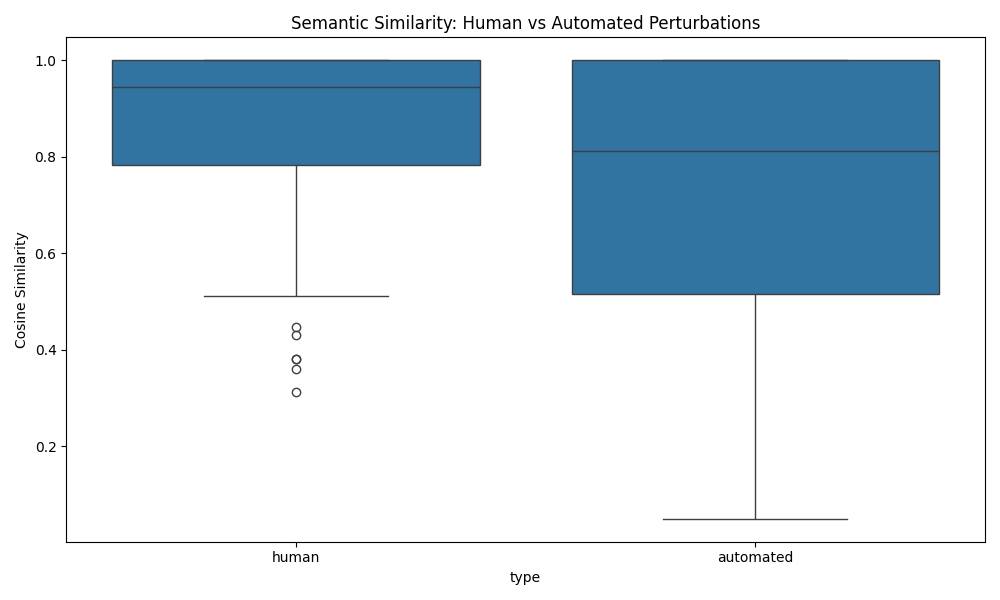
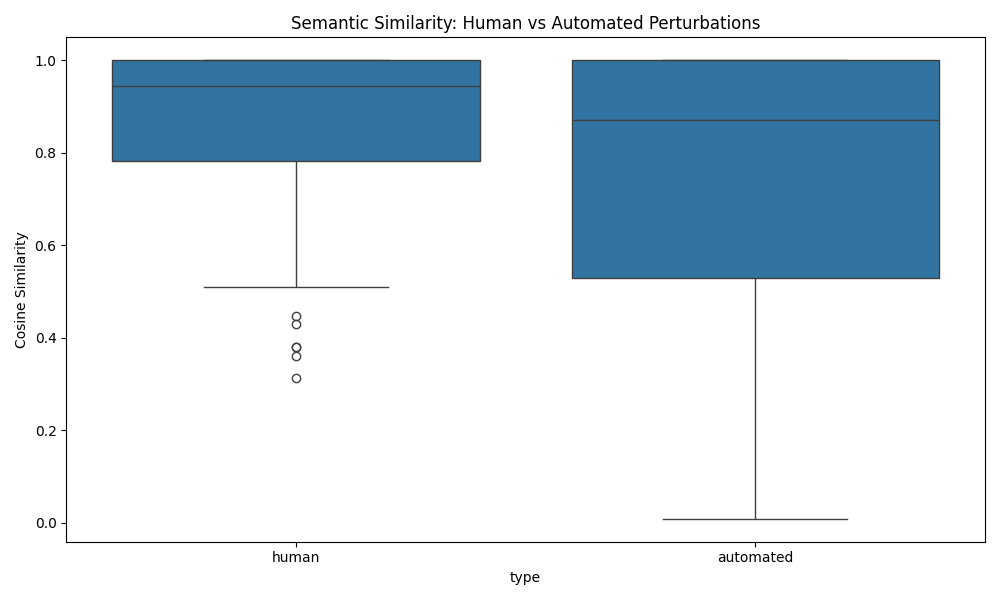
added semantic similarity tests

diff --git a/evaluation/similarities.py b/evaluation/similarities.py
@@ -1,0 +1,42 @@
+from sentence_transformers import SentenceTransformer, util
+import pandas as pd
+
+model = SentenceTransformer("all-mpnet-base-v2")
+
+def compute_similarity(clean_texts, perturbed_texts):
+
+    clean_emb = model.encode(clean_texts, convert_to_tensor=True, show_progress_bar=True)
+    pert_emb = model.encode(perturbed_texts, convert_to_tensor=True, show_progress_bar=True)
+
+    sims = util.cos_sim(clean_emb, pert_emb)
+    diagonal_sims = [float(sims[i][i]) for i in range(len(clean_texts))]
+
+    return pd.DataFrame({
+        "clean": clean_texts,
+        "perturbed": perturbed_texts,
+        "similarity": diagonal_sims
+    })
+
+
+def compare_similarity(clean, human, auto):
+    
+    human_df = compute_similarity(clean, human)
+    auto_df = compute_similarity(clean, auto)
+
+    summary = pd.DataFrame({
+        "type": ["human", "automated"],
+        "mean_similarity": [
+            human_df["similarity"].mean(),
+            auto_df["similarity"].mean(),
+        ],
+        "median_similarity": [
+            human_df["similarity"].median(),
+            auto_df["similarity"].median(),
+        ],
+        "min_similarity": [
+            human_df["similarity"].min(),
+            auto_df["similarity"].min(),
+        ]
+    })
+
+    return human_df, auto_df, summary
